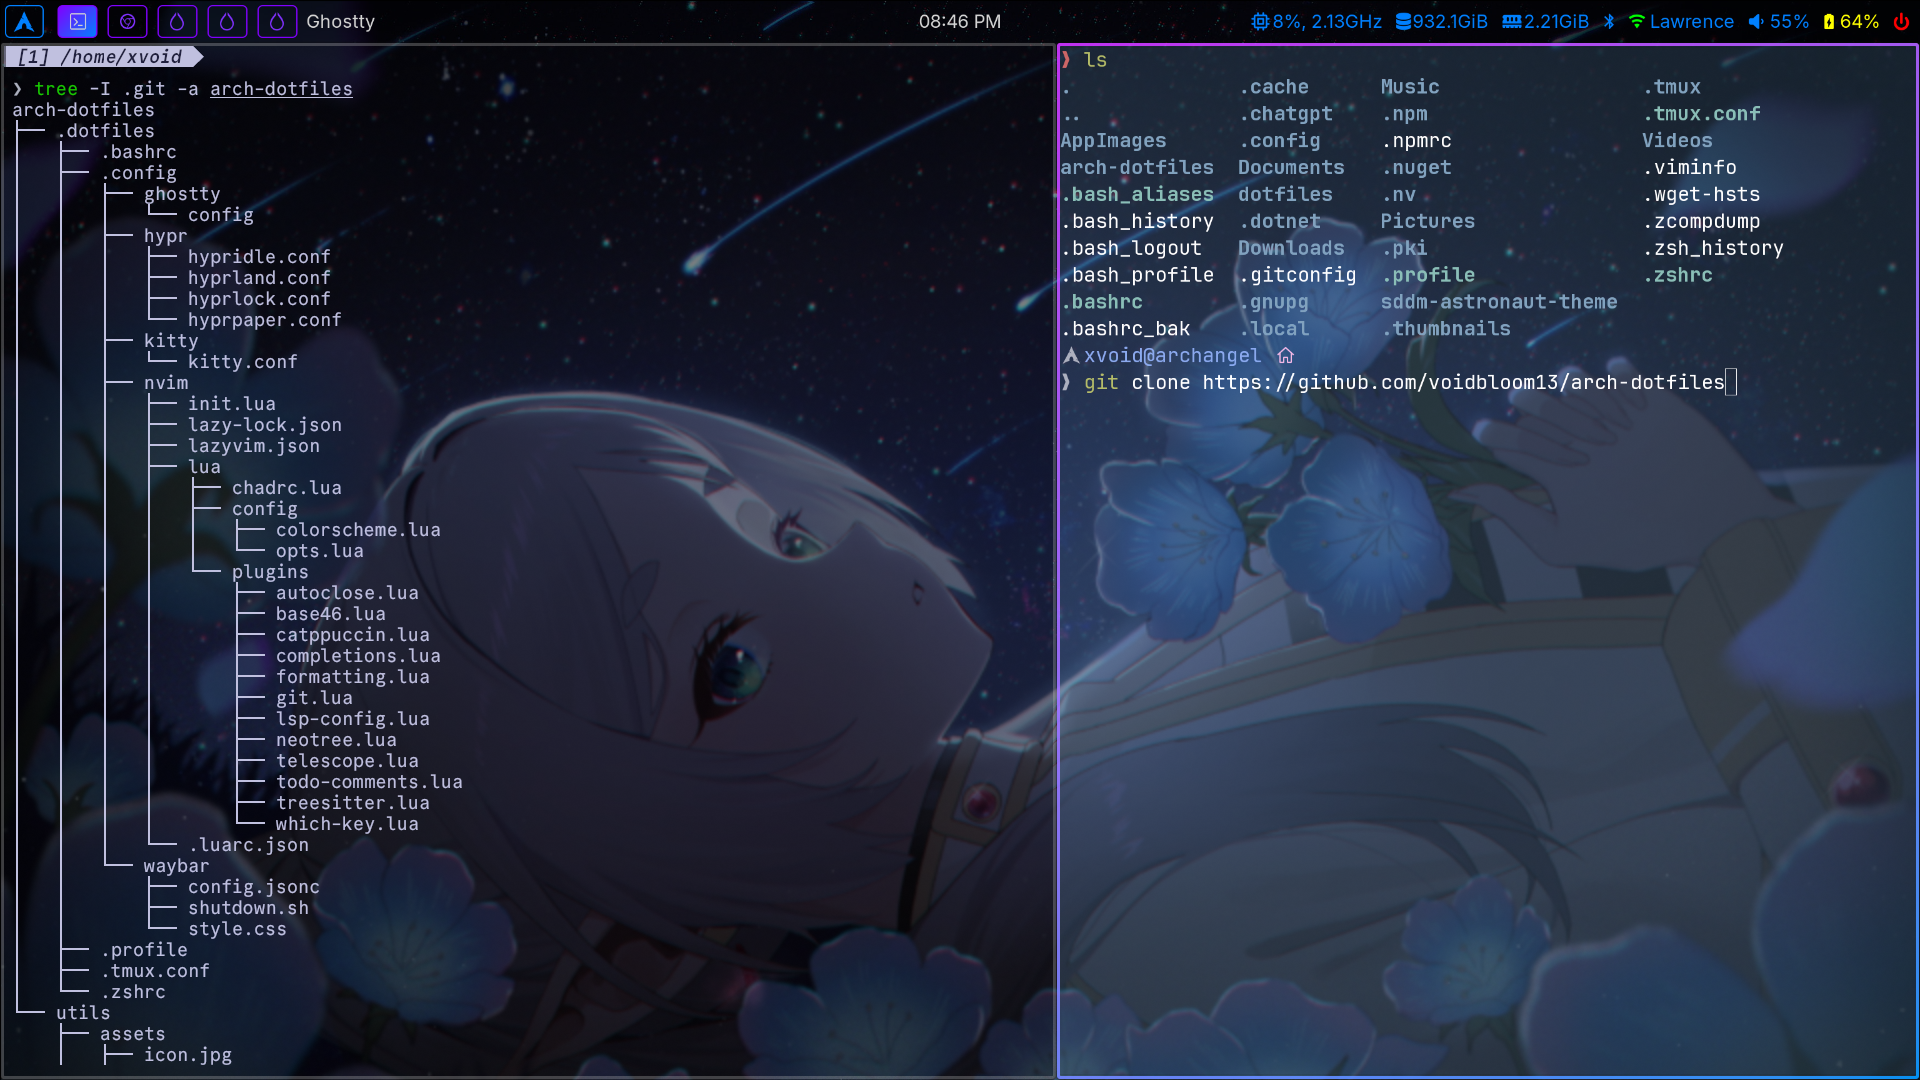
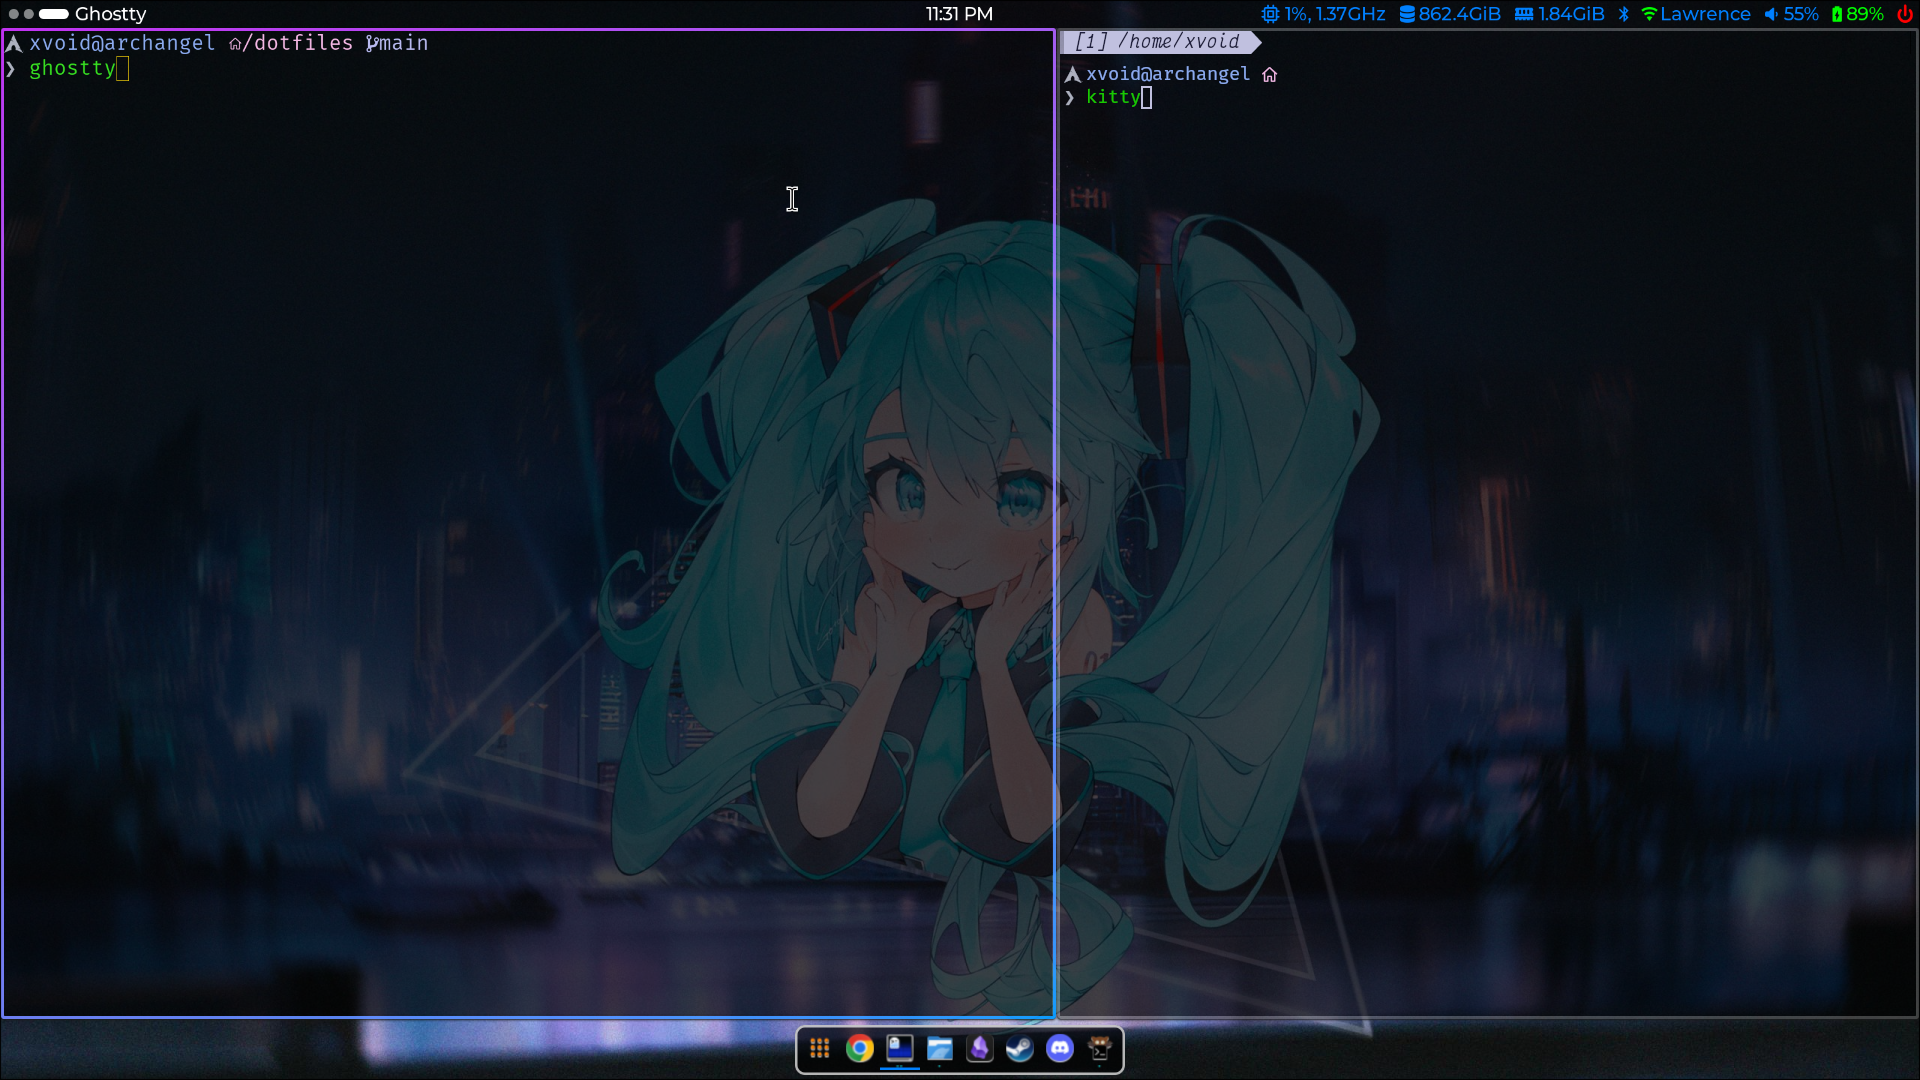
Editted dock, waybar, and wofi css to be more coherent. Removed OpenWebUI to save resourcces. Updated readme.md to include updated features.

diff --git a/.dotfiles/.config/waybar/style.css b/.dotfiles/.config/waybar/style.css
@@ -3,54 +3,43 @@
   border-radius: 0;
   background: none;
   min-height: 0;
-  padding: 0;
+  padding: 0px;
+  font-family: "Montserrat";
+  font-weight: 500;
 }
 
 window#waybar {
-  background-color: rgba(0, 0, 0, 0.5);
-  color: rgba(212, 212, 212, 1);
+  background-color: rgba(0, 0, 0, 0.7);
+  color: rgba(255, 255, 255, 1);
 }
 
 /* HYPRLAND WORKSPACES */
 #workspaces {
-  background-image: linear-gradient(135deg, transparent, transparent);
+  margin-top: 5px;
+  margin-bottom: 5px;
+  margin-left: 5px;
 }
 
 #workspaces button {
   transition: all 0.15s;
-  background-image: linear-gradient(
-    135deg,
-    rgba(212, 212, 212, 0.7),
-    rgba(212, 212, 212, 0.7)
-  );
+  background-color: rgba(255, 255, 255, 0.5);
   font-size: 0px;
-  border: 1px solid rgba(255, 255, 255, 1);
   border-radius: 8px;
-  padding: 0px;
-  margin: 4px;
+  min-width: 0;
+  padding: 4px;
+  margin: 2px;
 }
 
 #workspaces button.active {
-  background-image: linear-gradient(
-    135deg,
-    rgba(128, 0, 255, 1),
-    rgba(0, 128, 255, 1)
-  );
-  padding: 0px 8px;
-}
-
-#workspaces button:hover {
-  border: 1px solid rgba(212, 212, 212, 1);
-  background-color: rgba(0, 128, 255, 1);
-  color: rgba(212, 212, 212, 1);
-  box-shadow: none;
-  text-shadow: none;
+  background-color: rgba(255, 255, 255, 1);
+  padding: 4px 12px;
 }
 
 /* CPU, Disk, and Memory */
 #cpu {
   transition: all 0.3s;
-  margin: 0 4px;
+  margin-left: 4px;
+  margin-right: 4px;
 }
 
 #cpu.zero {
@@ -70,13 +59,15 @@ window#waybar {
 }
 
 #disk {
-  margin: 0 4px;
+  margin-left: 4px;
+  margin-right: 4px;
   color: rgba(0, 128, 255, 1);
 }
 
 #memory {
   transition: all 0.3s;
-  margin: 0 4px;
+  margin-left: 4px;
+  margin-right: 4px;
 }
 
 #memory.zero {
@@ -97,19 +88,22 @@ window#waybar {
 
 /* BLUETOOTH AND NETWORK */
 #bluetooth {
-  margin: 0 4px;
+  margin-left: 4px;
+  margin-right: 4px;
   color: rgba(0, 128, 255, 1);
 }
 
 #network {
-  margin: 0 4px;
+  margin-left: 4px;
+  margin-right: 4px;
   color: rgba(0, 128, 255, 1);
 }
 
 /* WIREPLUMBER */
 #wireplumber {
   transition: all 0.3s;
-  margin: 0 4px;
+  margin-left: 4px;
+  margin-right: 4px;
   color: rgba(0, 128, 255, 1);
 }
 
@@ -129,7 +123,8 @@ window#waybar {
 
 #battery {
   transition: all 0.3s;
-  margin: 0 4px;
+  margin-left: 4px;
+  margin-right: 4px;
 }
 
 #battery.full {
@@ -154,6 +149,7 @@ window#waybar {
 
 /* POWER */
 #custom-power {
-  margin: 0 4px;
+  margin-left: 4px;
+  margin-right: 4px;
   color: rgba(255, 0, 0, 1);
 }

diff --git a/.dotfiles/.config/wofi/style.css b/.dotfiles/.config/wofi/style.css
@@ -1,0 +1,50 @@
+@import url("https://fonts.googleapis.com/css2?family=Montserrat:ital,wght@0,100..900;1,100..900&display=swap");
+
+#window {
+  background: none;
+}
+
+#input {
+  background-color: rgba(0, 0, 0, 0.8);
+  color: white;
+  font-weight: bold;
+  font-size: 18px;
+  font-family: "Montserrat";
+  margin-bottom: 2rem;
+  margin-left: 16rem;
+  margin-right: 16rem;
+  padding-left: 4px;
+  border-radius: 8px;
+  border: 2px solid rgba(255, 255, 255, 0.7);
+  max-width: 50%;
+}
+
+#scroll {
+  background-color: rgba(0, 0, 0, 0.8);
+  border: 2px solid rgba(255, 255, 255, 0.7);
+  border-radius: 8px;
+  margin-left: 12rem;
+  margin-right: 12rem;
+  padding: 4px;
+}
+
+#entry {
+  margin-bottom: 0.5rem;
+}
+
+#entry:selected {
+  background-color: rgba(0, 128, 255, 0.5);
+  border-radius: 6px;
+  border: none;
+}
+
+#text {
+  color: rgba(255, 255, 255, 0.8);
+  font-size: 18px;
+  font-family: "Montserrat";
+  margin-left: 4px;
+}
+
+#text:selected {
+  font-weight: bold;
+}

diff --git a/.dotfiles/.config/nwg-dock-hyprland/style.css b/.dotfiles/.config/nwg-dock-hyprland/style.css
@@ -1,0 +1,41 @@
+window {
+  background-color: rgba(0, 0, 0, 0.7);
+  border-radius: 8px;
+  border: 2px solid rgba(255, 255, 255, 0.7);
+}
+
+#box {
+  /* Define attributes of the box surrounding icons here */
+  padding: 4px;
+}
+
+#active {
+  /* This is to underline the button representing the currently active window */
+  border-bottom: solid 2px;
+  border-color: rgba(0, 128, 255, 1);
+}
+
+button,
+image {
+  background: none;
+  border-style: none;
+  box-shadow: none;
+  color: #999;
+}
+
+button {
+  padding: 2px;
+  margin-left: 2px;
+  margin-right: 2px;
+  color: #eee;
+  font-size: 12px;
+}
+
+button:hover {
+  background-color: rgba(0, 128, 255, 0.5);
+  border-radius: 8px;
+}
+
+button:focus {
+  box-shadow: none;
+}

diff --git a/README.md b/README.md
@@ -2,19 +2,23 @@
 
 ### Key Features
 - Hyprland Tiling Window Manager for seamlessly switching between windows
+![Screenshot of Hyprland Tiling](https://github.com/voidbloom13/arch-dotfiles/blob/main/utils/assets/hyprland.png)
 - Your choice of Kitty or Ghostty for terminal emulation
 ![Screenshot of terminals](https://github.com/voidbloom13/arch-dotfiles/blob/main/utils/assets/hyprland-terminals.png)
 - Custom Oh-My-Posh Theme with transient prompt *(based on Catppuccin)*
+![Screenshot of OMP Theme](https://github.com/voidbloom13/arch-dotfiles/blob/main/utils/assets/omp-theme.png)
 - Awesome Neovim config inspired by NvChad
 ![Screenshot of NVIM](https://github.com/voidbloom13/arch-dotfiles/blob/main/utils/assets/hyprland-nvim.png)
-- OpenWebUI and Gemini CLI AI options
-![Screenshot of AI](https://github.com/voidbloom13/arch-dotfiles/blob/main/utils/assets/hyprland-ai.png)
+- Gemini CLI for integrated AI
+![Screenshot of Gemini](https://github.com/voidbloom13/arch-dotfiles/blob/main/utils/assets/gemini.png)
 - Hyprlock and Hypridle to keep your device secure
 ![Screenshot of Hyprlock](https://github.com/voidbloom13/arch-dotfiles/blob/main/utils/assets/hyprland-hyprlock.png)
-- Hyprpaper for managing wallpapers
-- Hyprshot to capture your screen
 - Sleek Waybar config to track Hyprland workspaces and device metrics
 ![Screenshot of waybar](https://github.com/voidbloom13/arch-dotfiles/blob/main/utils/assets/hyprland-waybar.png)
+- Simple, yet elegant, dock using [nwg-dock-hyprland](https://github.com/nwg-piotr/nwg-dock-hyprland)
+![Screenshot of dock](https://github.com/voidbloom13/arch-dotfiles/blob/main/utils/assets/hyprland-dock.png)
+- Hyprpaper for managing wallpapers
+- Hyprshot to capture your screen
 - Using [Keyitdev's SDDM Astronaut Theme](https://github.com/Keyitdev/sddm-astronaut-theme) (hyprland_kath preset) for my SDDM Login Theme
 
 ### How to Use
